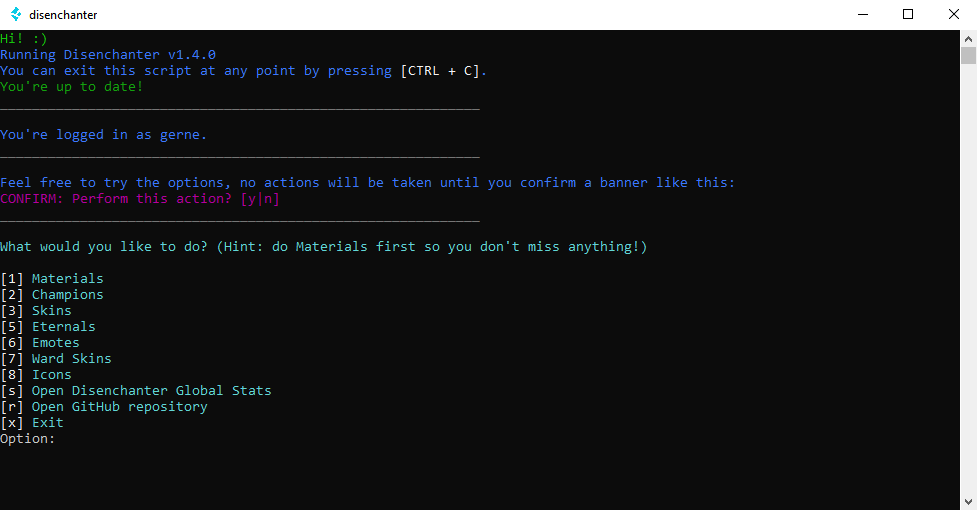
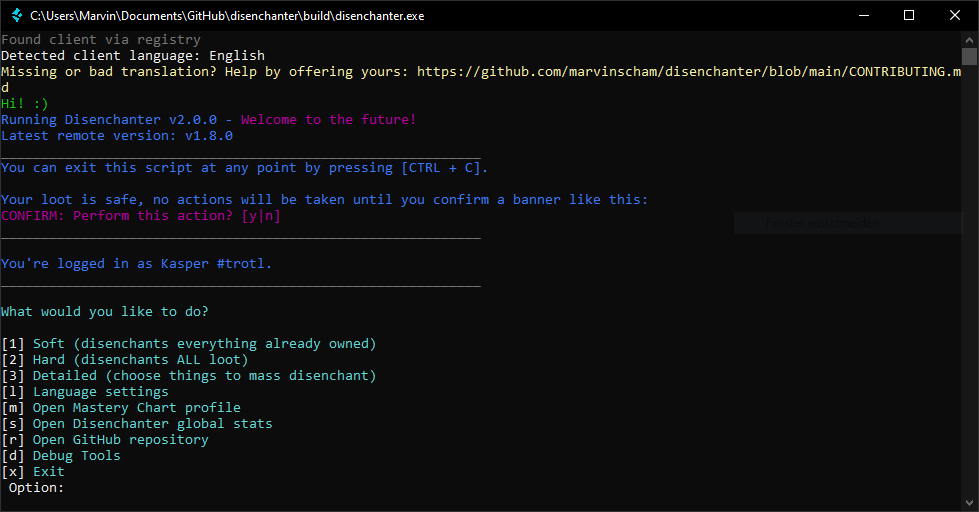
Updated docs

Changed region(s): [[0.0, 0.0, 1.0, 1.0], [0.0, 0.4706, 0.6755, 0.9706]]

diff --git a/README.md b/README.md
@@ -25,46 +25,39 @@ Mass disenchant LoL loot like champion shards, eternals, mythic essence and more
 </div>
 
 ## Usage
-
 Download the pre-built `disenchanter.exe` from the [Latest Release](https://github.com/marvinscham/disenchanter/releases).
 
 Start your League Client **without admin privileges** and log into your account, then start the script.
 
-### Details
+![Demo](./assets/disenchanter.png)
 
+### Details
 The script is interactive and will guide you through the process with simple `[y|n]` questions and mode options. Before you disenchant or craft anything, you will be asked to confirm the action in a magenta colored message with a big `CONFIRM:` banner so don't be scared to explore the different options!
 
 Once you're finished, you can _optionally_ contribute your (anonymous) stats to the [Global Stats](https://github.com/marvinscham/disenchanter/wiki/Stats). ([Details](https://github.com/marvinscham/disenchanter/wiki/Stat-Collection))
 
-![Demo](./assets/disenchanter.png)
-
 ## Is this a virus?
-
 TL;DR: No, but you will probably get a trojan alert. ([Details](https://github.com/marvinscham/disenchanter/wiki/Is-this-a-virus%3F))
 
 ## Is this going to get me banned?
-
 No, the script only uses [official Riot APIs](https://developer.riotgames.com/docs/lol#league-client).
+Even after Vanguard was introduced, there have been no reports of bans because of Disenchanter.
 
 The script triggers the same server requests as you would in your League Client. It won't make you sit through any animations, though.
 
 ## Features
-
-
-- Materials
+- Soft Mode
+  - Crafts keys from your key fragments
+  - Opens all capsules without using keys
+  - Disenchants any loot of content you already own
+- Hard Mode
+  - Soft Mode + Loot of things you don't own yet is disenchanted
+- Detailed Mode
+  - Manually select loot types to mass disenchant
   - Craft Mythic Essence to Skins or Blue/Orange Essence
-  - Combine Key Fragments
-  - Open keyless capsules
-  - Upgrade Mastery Tokens efficiently
-- Champion Shards
-  - Disenchant all
-  - Keep one for champions you don't own yet
-  - Keep enough (1/2) for champions you own mastery 6/7 tokens for
-  - Keep enough (1/2) to fully master champions at least at mastery level x (select from 1 to 6)
-  - Keep enough (1/2) to fully master all champions (only disenchant shards that have no possible use)
-  - Keep one of each champion regardless of mastery
-  - Manual exceptions
-- Disenchant various items
+- Supported loot types (both shards and permanents)
+  - Champions
+  - Skins
   - Eternals
   - Emotes
   - Ward Skins
@@ -72,7 +65,6 @@ The script triggers the same server requests as you would in your League Client.
   - Tacticians
 
 ## Problems, Bugs and Feature Suggestions
-
 Something isn't working properly or you'd like to see a feature that isn't yet supported?
 
 - [Create an issue](https://github.com/marvinscham/disenchanter/issues/new/choose)
@@ -80,17 +72,14 @@ Something isn't working properly or you'd like to see a feature that isn't yet s
 - Open a pull request with your contribution.
 
 ## Translation
-
 You can help to make Disenchanter available in your language! More info [here!](https://weblate.ms-ds.org/engage/disenchanter/)
 
 [![](https://weblate.ms-ds.org/widget/disenchanter/disenchanter/multi-auto.svg)](https://weblate.ms-ds.org/engage/disenchanter/)
 
 
 ## ❤ Sponsors ❤
-
 - Ze Interrupter
 - tsunamihorseracing
 
 ## Disclaimer
-
 _Disenchanter isn't endorsed by Riot Games and doesn't reflect the views or opinions of Riot Games or anyone officially involved in producing or managing Riot Games properties. Riot Games, and all associated properties are trademarks or registered trademarks of Riot Games, Inc._

diff --git a/CHANGELOG.md b/CHANGELOG.md
@@ -3,6 +3,21 @@
 All notable changes to this project will be documented in this file.
 The format is based on [Keep a Changelog](https://keepachangelog.com/en/1.0.0/). Related: [versioning strategy](./VERSIONING.md).
 
+## v2.0.0 - May 17, 2024
+The context for this update is Patch 14.10, which changed the way Champion Mastery works and how the system interacts with player loot.
+
+### Added
+- #150 _Soft_ and _Hard_ quick modes, which will either disenchant all loot the player has already unlocked permanently or disenchant everything
+- Start of Turkish translation (Thank you, **ismailenes01**!)
+
+### Changed
+- #150 Old main menu moved to a new "Detailed Menu"
+
+### Removed
+- #184 Champion Shard filters by Champion Mastery
+- #184 Champion Shard filters by Mastery Tokens
+- #184 Mastery Token upgrading
+
 ## v1.8.0 - Apr 15, 2024
 ### Added
 - Polish translation by **The_Shade2** (Thank you!)

diff --git a/CREDITS.md b/CREDITS.md
@@ -14,3 +14,5 @@ Disenchanter is based on [Anujan/disenchant-champ-shards](https://github.com/Anu
   - **The_Shade2**
 - Traditional Chinese (繁體中文)
   - @nico12313
+- Turkish (Türkçe)
+  - **ismailenes01**

diff --git a/SETUP.md b/SETUP.md
@@ -32,4 +32,6 @@ bundle exec i18n-tasks remove-unused
 
 ## Increment version
 
-- `bumpversion --new-version <version> <major|minor|fix>`
+```bash
+bumpversion --new-version <version> <major|minor|fix>
+```
